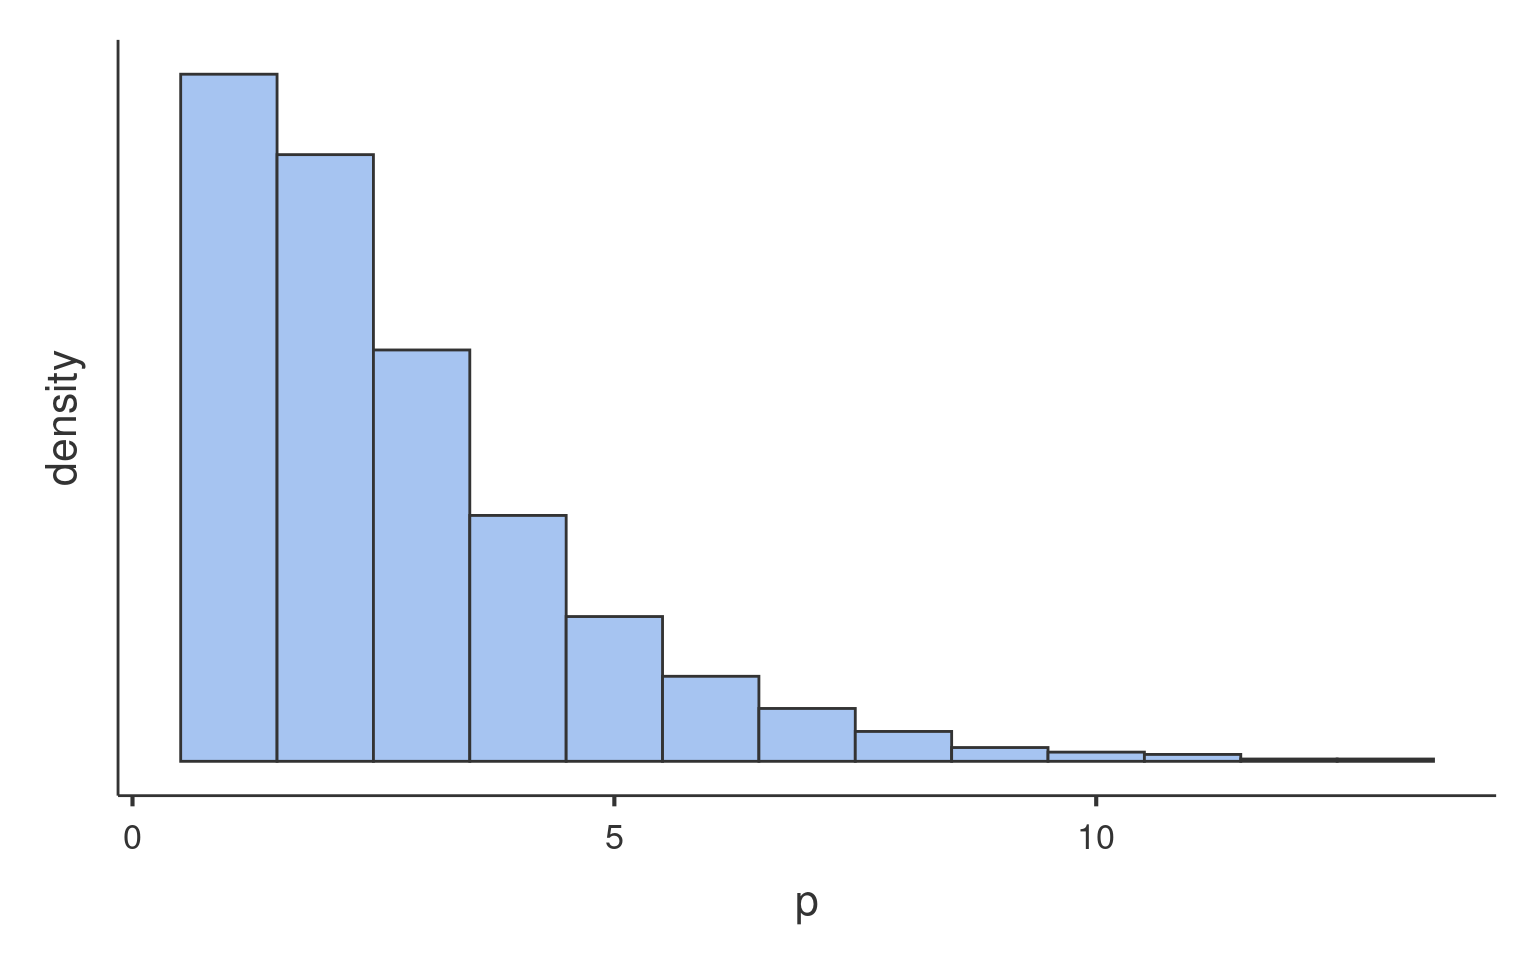
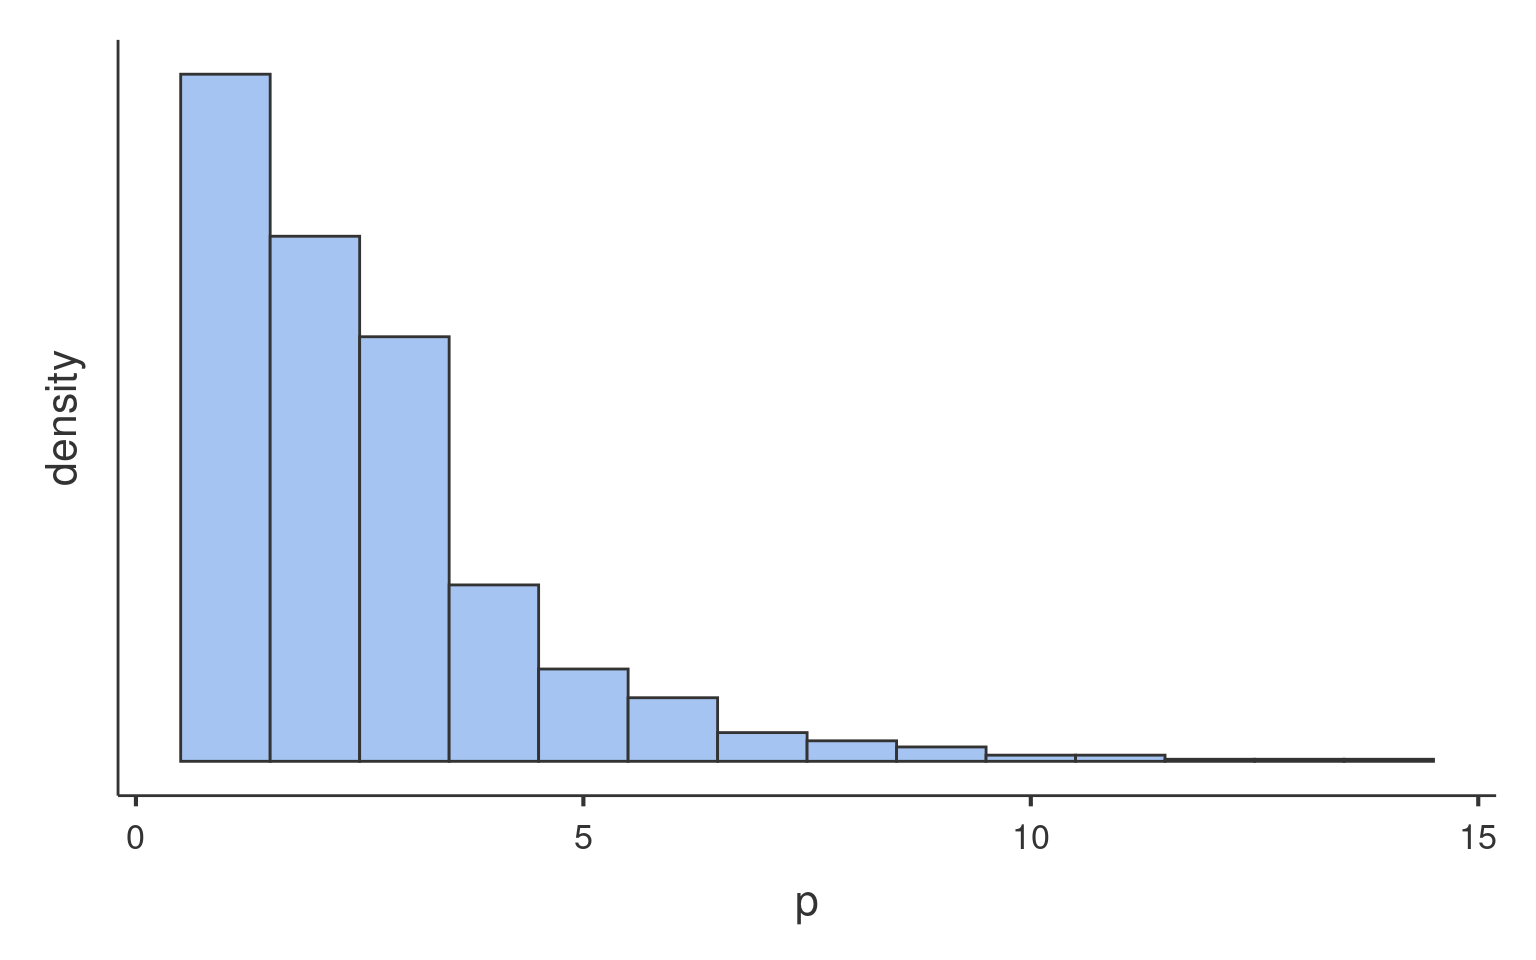
updates

diff --git a/docs/glmmixed_example2.html b/docs/glmmixed_example2.html
@@ -295,8 +295,8 @@ Generalized Linear Model with Poisson distribition may work. However, we
 can check wheather our distribution is in line with the features of the
 Poisson dist by checking its mean and variance. The Poisson distribution
 has variance equal to the mean, in fact the simulated distribution in
-the histogram has <span class="math inline">\(\bar{x}=1.73\)</span> and
-<span class="math inline">\(s^2=1.635\)</span>. The <code>art</code>
+the histogram has <span class="math inline">\(\bar{x}=1.671\)</span> and
+<span class="math inline">\(s^2=1.841\)</span>. The <code>art</code>
 variable distribution has <span
 class="math inline">\(\bar{x}=1.693\)</span> and <span
 class="math inline">\(s^2=3.71\)</span>, with a ratio variance/mean of

diff --git a/docs/index.html b/docs/index.html
@@ -348,6 +348,7 @@ class="math inline">\(d\)</span>, both partial and not partial.</li>
 <li><a href="mixed.html">GAMLj Mixed models</a></li>
 <li><a href="gzlm.html">GAMLj Generalized Models</a></li>
 <li><a href="gzlmmixed.html">GAMLj Generalized Mixed Models</a></li>
+<li><a href="vignettes.html">GAMLj in R</a></li>
 </ul>
 </div>
 <div id="examples" class="section level1">

diff --git a/docs/vignettes.html b/docs/vignettes.html
@@ -286,7 +286,7 @@
 <div id="main">
 <div class="version">
 <p>
-2.4.0
+3.0.0
 </p>
 </div>
 <div style="clear:both">
